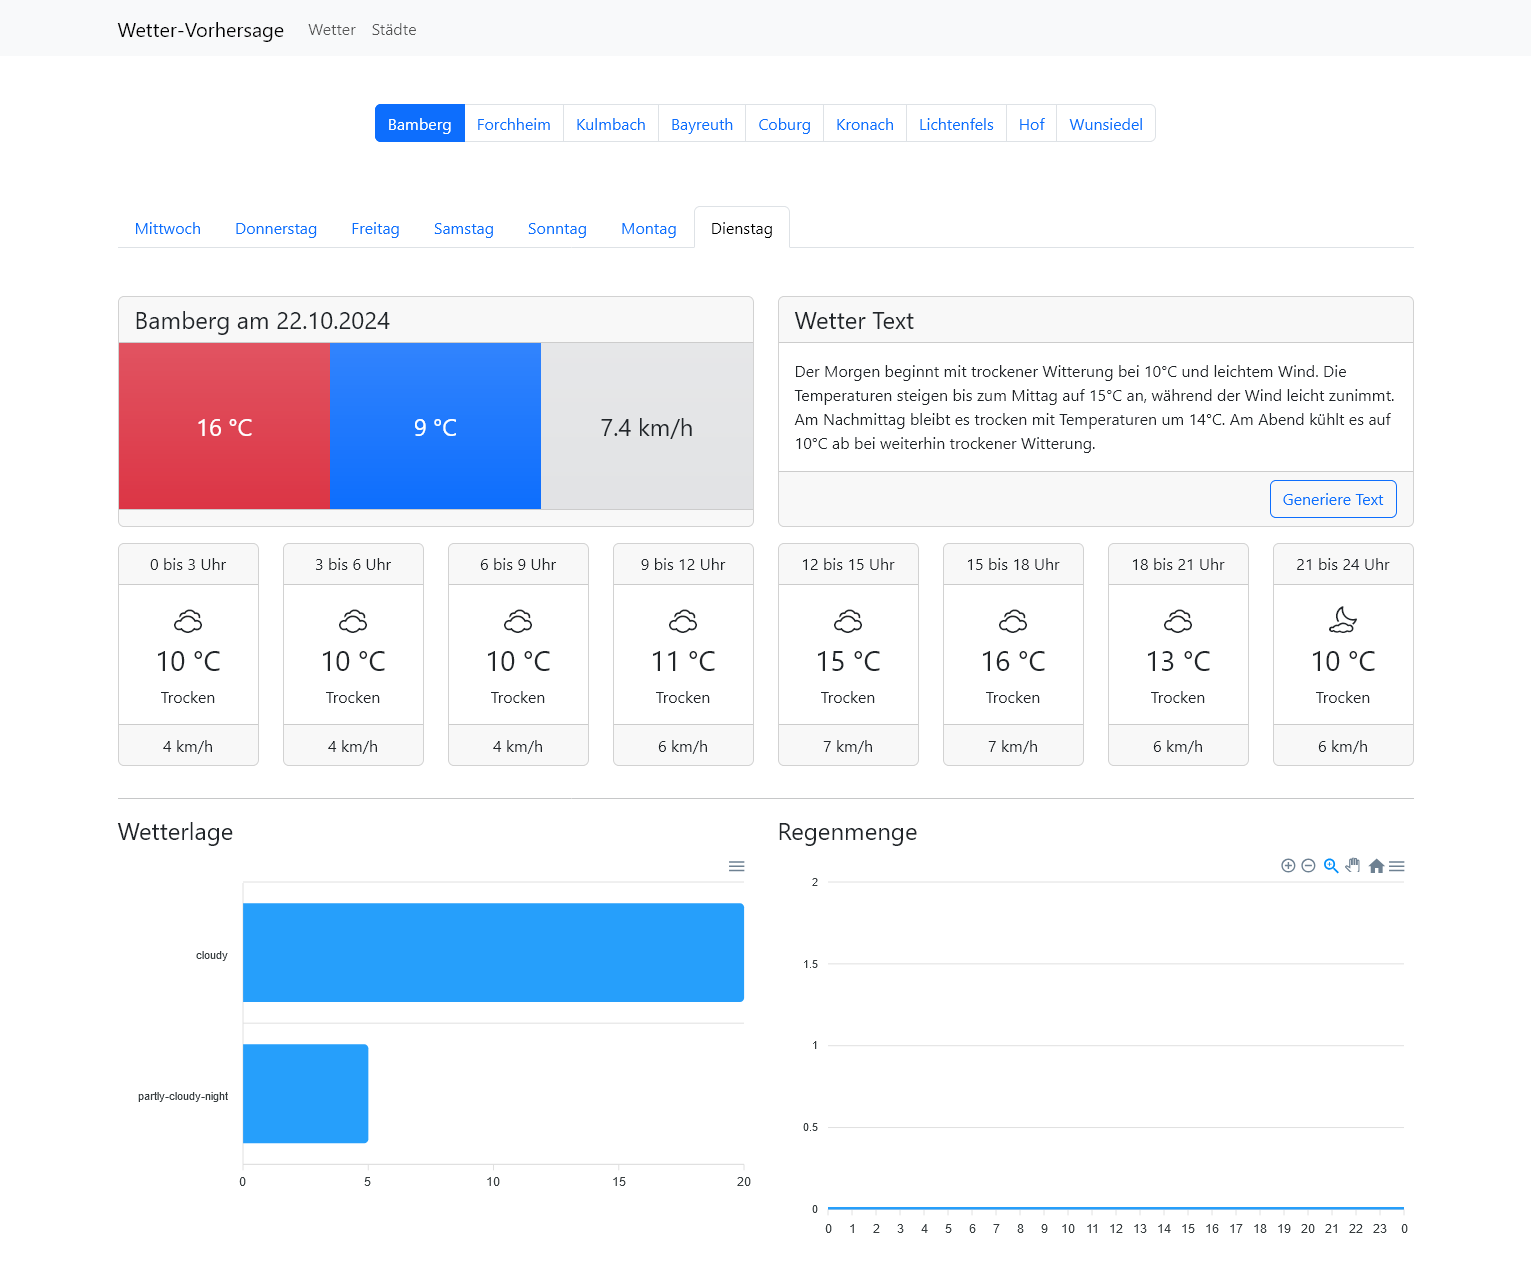
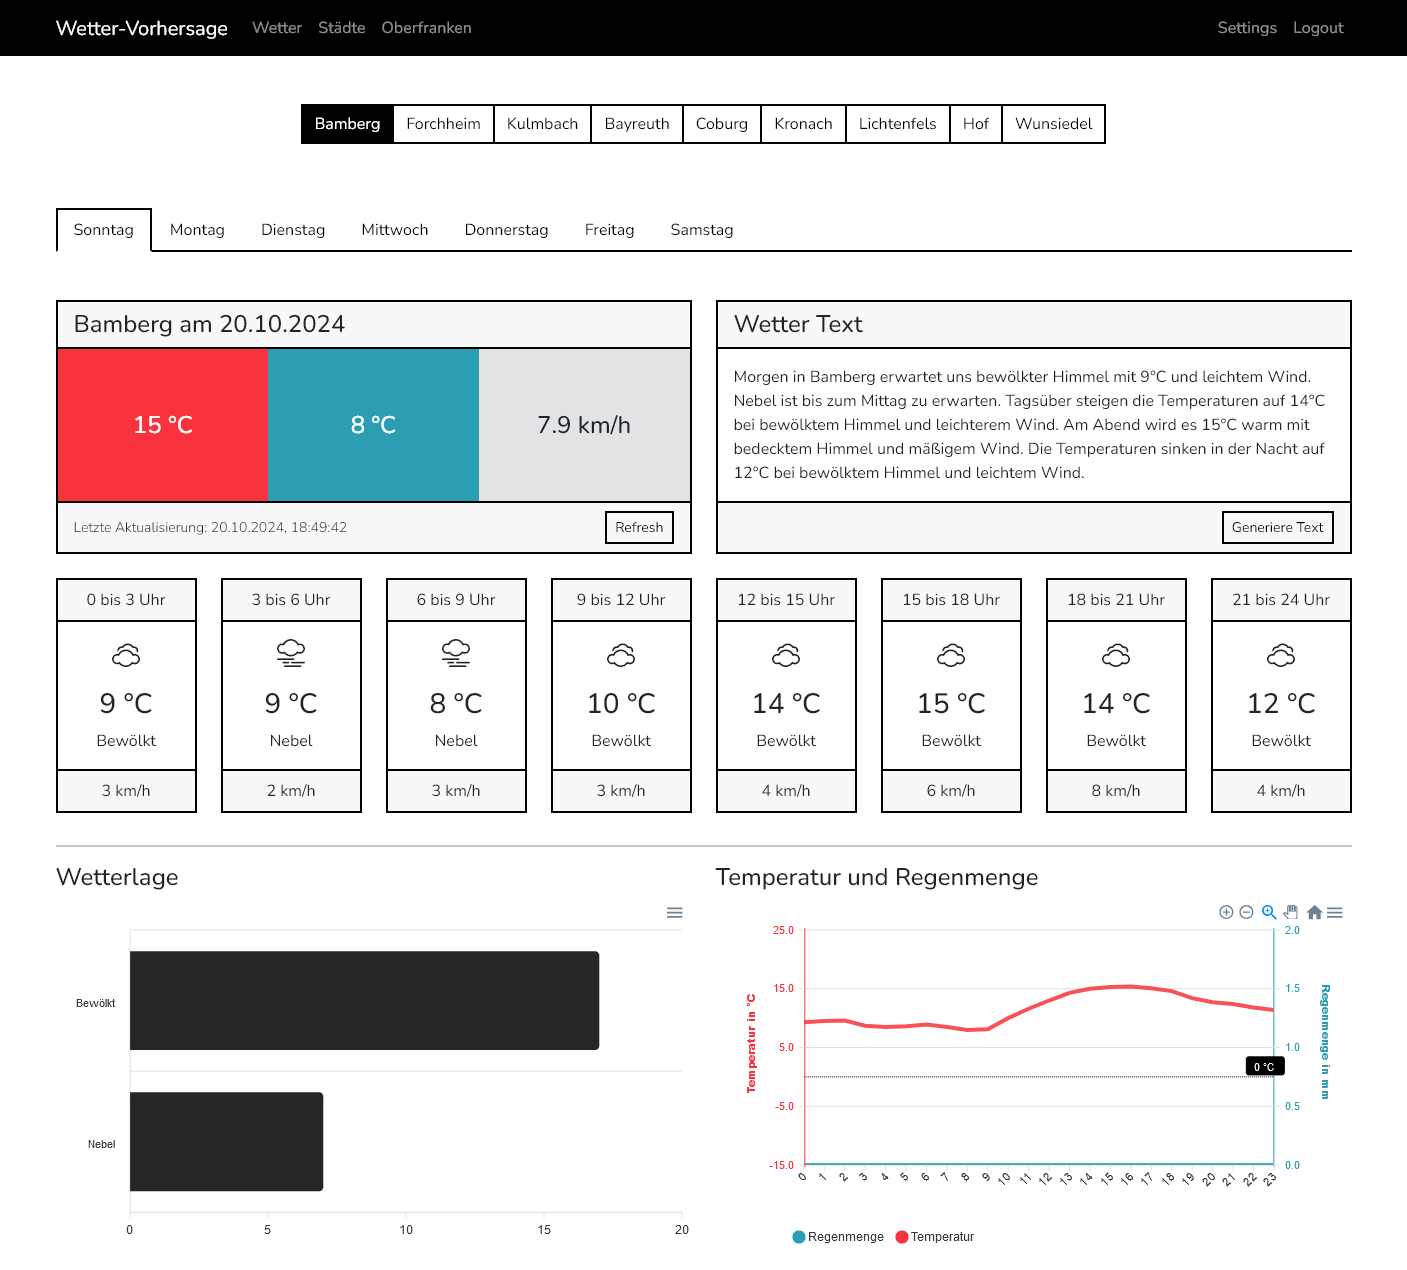
Change style (minimalism)

diff --git a/public/style.css b/public/style.css
@@ -1,3 +1,199 @@
+@import url('https://fonts.googleapis.com/css2?family=Nunito:ital,wght@0,200..1000;1,200..1000&display=swap');
+
+:root,
+[data-bs-theme=light] {
+    --bs-blue: #0d6efd;
+    --bs-indigo: #6610f2;
+    --bs-purple: #6f42c1;
+    --bs-pink: #d63384;
+    --bs-red: #dc3545;
+    --bs-orange: #fd7e14;
+    --bs-yellow: #ffc107;
+    --bs-green: #198754;
+    --bs-teal: #20c997;
+    --bs-cyan: #0dcaf0;
+    --bs-black: #000;
+    --bs-white: #fff;
+    --bs-gray: #6c757d;
+    --bs-gray-dark: #343a40;
+    --bs-gray-100: #f8f9fa;
+    --bs-gray-200: #e9ecef;
+    --bs-gray-300: #dee2e6;
+    --bs-gray-400: #ced4da;
+    --bs-gray-500: #adb5bd;
+    --bs-gray-600: #6c757d;
+    --bs-gray-700: #495057;
+    --bs-gray-800: #343a40;
+    --bs-gray-900: #212529;
+    --bs-primary: #2B9EB3;
+    --bs-secondary: #dbd5b5;
+    --bs-success: #44af69;
+    --bs-info: #0dcaf0;
+    --bs-warning: #fcab10;
+    --bs-danger: #f8333c;
+    --bs-light: #f8f9fa;
+    --bs-dark: #212529;
+    --bs-primary-rgb: 43, 158, 179;
+    --bs-secondary-rgb: 108, 117, 125;
+    --bs-success-rgb: 68, 175, 105;
+    --bs-info-rgb: 219, 213, 181;
+    --bs-warning-rgb: 252, 171, 16;
+    --bs-danger-rgb: 248, 51, 60;
+    --bs-light-rgb: 248, 249, 250;
+    --bs-dark-rgb: 33, 37, 41;
+    --bs-primary-text-emphasis: #052c65;
+    --bs-secondary-text-emphasis: #2b2f32;
+    --bs-success-text-emphasis: #0a3622;
+    --bs-info-text-emphasis: #055160;
+    --bs-warning-text-emphasis: #664d03;
+    --bs-danger-text-emphasis: #58151c;
+    --bs-light-text-emphasis: #495057;
+    --bs-dark-text-emphasis: #495057;
+    --bs-primary-bg-subtle: #cfe2ff;
+    --bs-secondary-bg-subtle: #e2e3e5;
+    --bs-success-bg-subtle: #d1e7dd;
+    --bs-info-bg-subtle: #cff4fc;
+    --bs-warning-bg-subtle: #fff3cd;
+    --bs-danger-bg-subtle: #f8d7da;
+    --bs-light-bg-subtle: #fcfcfd;
+    --bs-dark-bg-subtle: #ced4da;
+    --bs-primary-border-subtle: #9ec5fe;
+    --bs-secondary-border-subtle: #c4c8cb;
+    --bs-success-border-subtle: #a3cfbb;
+    --bs-info-border-subtle: #9eeaf9;
+    --bs-warning-border-subtle: #ffe69c;
+    --bs-danger-border-subtle: #f1aeb5;
+    --bs-light-border-subtle: #e9ecef;
+    --bs-dark-border-subtle: #adb5bd;
+    --bs-white-rgb: 255, 255, 255;
+    --bs-black-rgb: 0, 0, 0;
+    --bs-font-sans-serif: system-ui, -apple-system, "Segoe UI", Roboto, "Helvetica Neue", "Noto Sans", "Liberation Sans", Arial, sans-serif, "Apple Color Emoji", "Segoe UI Emoji", "Segoe UI Symbol", "Noto Color Emoji";
+    --bs-font-monospace: SFMono-Regular, Menlo, Monaco, Consolas, "Liberation Mono", "Courier New", monospace;
+    --bs-gradient: linear-gradient(180deg, rgba(255, 255, 255, 0.15), rgba(255, 255, 255, 0));
+    --bs-body-font-family: "Nunito", sans-serif
+        /*var(--bs-font-sans-serif)*/
+    ;
+    --bs-body-font-size: 1rem;
+    --bs-body-font-weight: 400;
+    --bs-body-line-height: 1.5;
+    --bs-body-color: #212529;
+    --bs-body-color-rgb: 33, 37, 41;
+    --bs-body-bg: #fff;
+    --bs-body-bg-rgb: 255, 255, 255;
+    --bs-emphasis-color: #000;
+    --bs-emphasis-color-rgb: 0, 0, 0;
+    --bs-secondary-color: rgba(33, 37, 41, 0.75);
+    --bs-secondary-color-rgb: 33, 37, 41;
+    --bs-secondary-bg: #000000;
+    --bs-secondary-bg-rgb: 233, 236, 239;
+    --bs-tertiary-color: rgba(33, 37, 41, 0.5);
+    --bs-tertiary-color-rgb: 33, 37, 41;
+    --bs-tertiary-bg: #f8f9fa;
+    --bs-tertiary-bg-rgb: 248, 249, 250;
+    --bs-heading-color: inherit;
+    --bs-link-color: #000000;
+    --bs-link-color-rgb: 13, 110, 253;
+    --bs-link-decoration: underline;
+    --bs-link-hover-color: #3b3b3b;
+    --bs-link-hover-color-rgb: 10, 88, 202;
+    --bs-code-color: #d63384;
+    --bs-highlight-color: #212529;
+    --bs-highlight-bg: #fff3cd;
+    --bs-border-width: 2px;
+    --bs-border-style: solid;
+    --bs-border-color: #000000;
+    --bs-border-color-translucent: rgb(0, 0, 0);
+    --bs-border-radius: 0;
+    /*0.375rem*/
+    ;
+    --bs-border-radius-sm: 0;
+    /*0.25rem;*/
+    --bs-border-radius-lg: 0;
+    /*0.5rem;*/
+    --bs-border-radius-xl: 0;
+    /*1rem;*/
+    --bs-border-radius-xxl: 0;
+    /*2rem;*/
+    --bs-border-radius-2xl: 0;
+    /*var(--bs-border-radius-xxl);*/
+    --bs-border-radius-pill: 50rem;
+    --bs-box-shadow: 0 0.5rem 1rem rgba(0, 0, 0, 0.15);
+    --bs-box-shadow-sm: 0 0.125rem 0.25rem rgba(0, 0, 0, 0.075);
+    --bs-box-shadow-lg: 0 1rem 3rem rgba(0, 0, 0, 0.175);
+    --bs-box-shadow-inset: inset 0 1px 2px rgba(0, 0, 0, 0.075);
+    --bs-focus-ring-width: 0.25rem;
+    --bs-focus-ring-opacity: 0.25;
+    --bs-focus-ring-color: rgba(13, 110, 253, 0.25);
+    --bs-form-valid-color: #198754;
+    --bs-form-valid-border-color: #198754;
+    --bs-form-invalid-color: #dc3545;
+    --bs-form-invalid-border-color: #dc3545;
+
+    --bs-nav-tabs-link-hover-border-color: rgba(var(--bs-black, 1)) !important;
+    --bs-pagination-active-bg: var(--bs-black) !important;
+
+    --bs-btn-hover-bg: var(--bs-black);
+
+
+}
+
+.active>.page-link,
+.page-link.active {
+    z-index: 3;
+    color: var(--bs-pagination-active-color);
+    background-color: var(--bs-black);
+    border-color: var(--bs-black);
+}
+
+.page-link:focus {
+    z-index: 3;
+    color: var(--bs-pagination-focus-color);
+    background-color: var(--bs-pagination-focus-bg);
+    outline: 0;
+    box-shadow: 0 0 0 rgba(0, 0, 0, 0.15);
+}
+
+.btn-outline-primary {
+    --bs-btn-color: var(--bs-black);
+    --bs-btn-border-color: var(--bs-black);
+    --bs-btn-hover-color: #fff;
+    --bs-btn-hover-bg: var(--bs-black);
+    --bs-btn-hover-border-color: var(--bs-black);
+    --bs-btn-focus-shadow-rgb: 13, 110, 253;
+    --bs-btn-active-color: #fff;
+    --bs-btn-active-bg: var(--bs-black);
+    --bs-btn-active-border-color: var(--bs-black);
+    --bs-btn-active-shadow: inset 0 3px 5px rgba(0, 0, 0, 0.125);
+    --bs-btn-disabled-color: var(--bs-black);
+    --bs-btn-disabled-bg: transparent;
+    --bs-btn-disabled-border-color: var(--bs-black);
+    --bs-gradient: none;
+}
+
+.btn-primary {
+    --bs-btn-color: #fff;
+    --bs-btn-bg: var(--bs-black);
+    --bs-btn-border-color: var(--bs-black);
+    --bs-btn-hover-color: #fff;
+    --bs-btn-hover-bg: var(--bs-body-color);
+    --bs-btn-hover-border-color: var(--bs-body-color);
+    --bs-btn-focus-shadow-rgb: 49, 132, 253;
+    --bs-btn-active-color: #fff;
+    --bs-btn-active-bg: var(--bs-body-color);
+    --bs-btn-active-border-color: var(--bs-body-color);
+    --bs-btn-active-shadow: inset 0 3px 5px rgba(0, 0, 0, 0.125);
+    --bs-btn-disabled-color: #fff;
+    --bs-btn-disabled-bg: var(--bs-black);
+    --bs-btn-disabled-border-color: var(--bs-black);
+}
+
+.no-wrap {
+    white-space: nowrap;
+    word-wrap: break-word;
+    text-overflow: ellipsis;
+    overflow: hidden;
+}
+
 .large-text {
     font-size: 1.75rem;
 }

diff --git a/public/charts.js b/public/charts.js
@@ -15,6 +15,7 @@ fetch(url).then(res => {
                 type: 'bar',
                 height: 350
             },
+            colors: ["#000000"],
             plotOptions: {
                 bar: {
                     borderRadius: 4,
@@ -43,7 +44,7 @@ fetch(url).then(res => {
             dataLabels: {
                 enabled: false
             },
-            colors: ["#247BA0", "#FF1654"],
+            colors: ["#2B9EB3", "#f8333c"],
             series: [
 
                 {
@@ -75,17 +76,17 @@ fetch(url).then(res => {
                     },
                     axisBorder: {
                         show: true,
-                        color: "#247BA0"
+                        color: "#2B9EB3"
                     },
                     labels: {
                         style: {
-                            colors: "#247BA0"
+                            colors: "#2B9EB3"
                         }
                     },
                     title: {
                         text: "Regenmenge in mm",
                         style: {
-                            color: "#247BA0"
+                            color: "#2B9EB3"
                         }
                     }
                 },
@@ -96,17 +97,17 @@ fetch(url).then(res => {
                     },
                     axisBorder: {
                         show: true,
-                        color: "#FF1654"
+                        color: "#f8333c"
                     },
                     labels: {
                         style: {
-                            colors: "#FF1654"
+                            colors: "#f8333c"
                         }
                     },
                     title: {
                         text: "Temperatur in °C",
                         style: {
-                            color: "#FF1654"
+                            color: "#f8333c"
                         }
                     },
                     min: date.getMonth() >= 3 && date.getMonth() < 9 ? -10 : -15,
